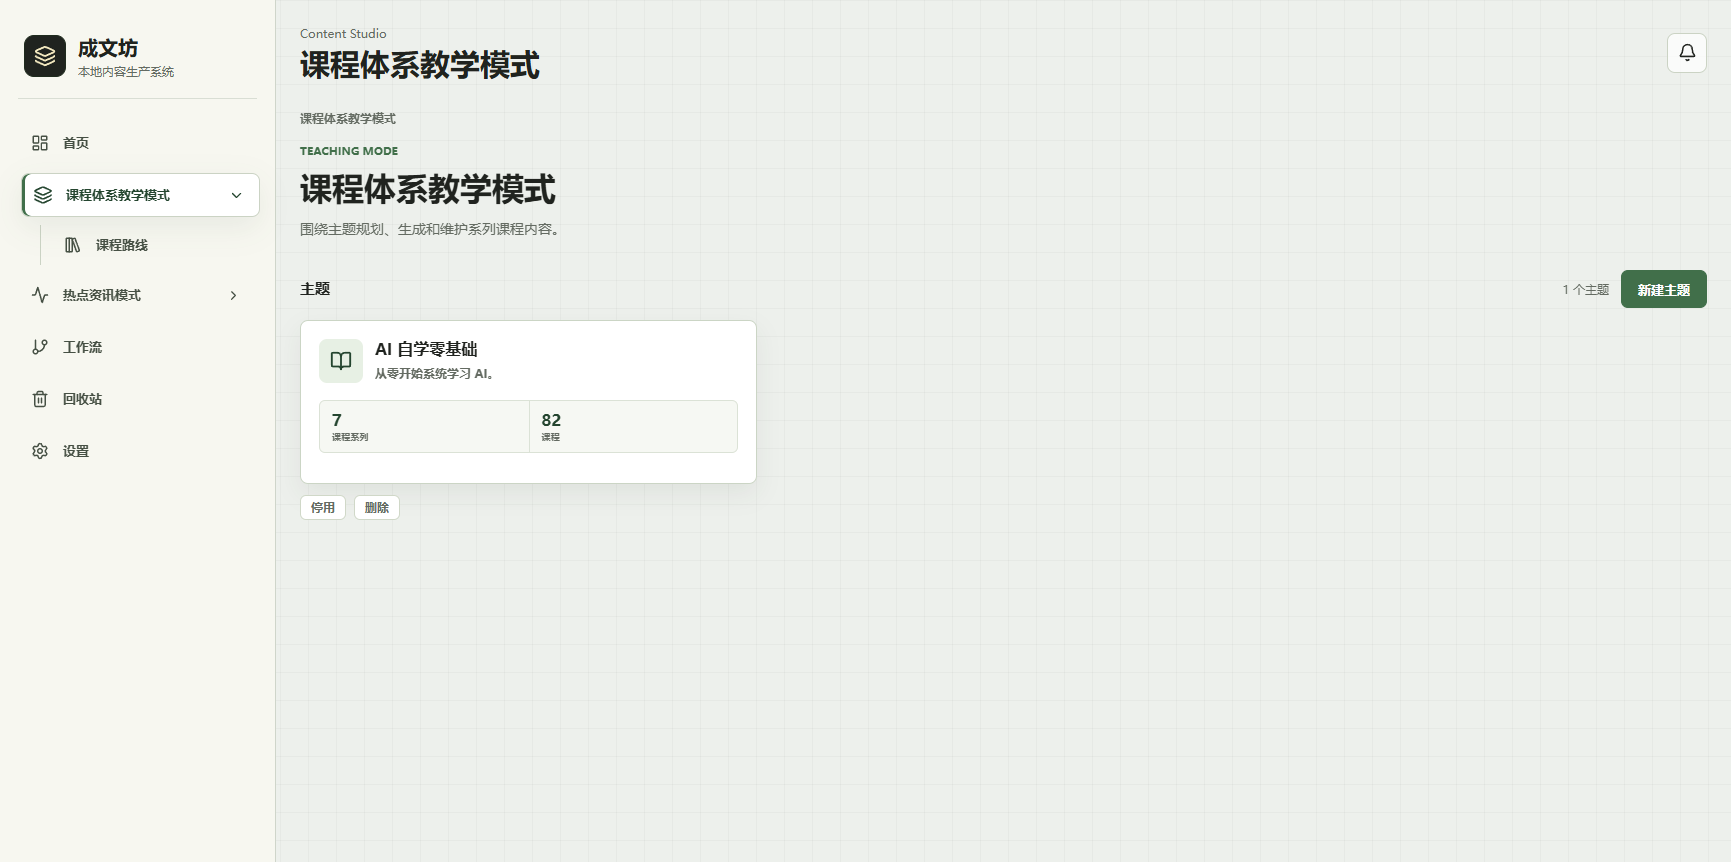
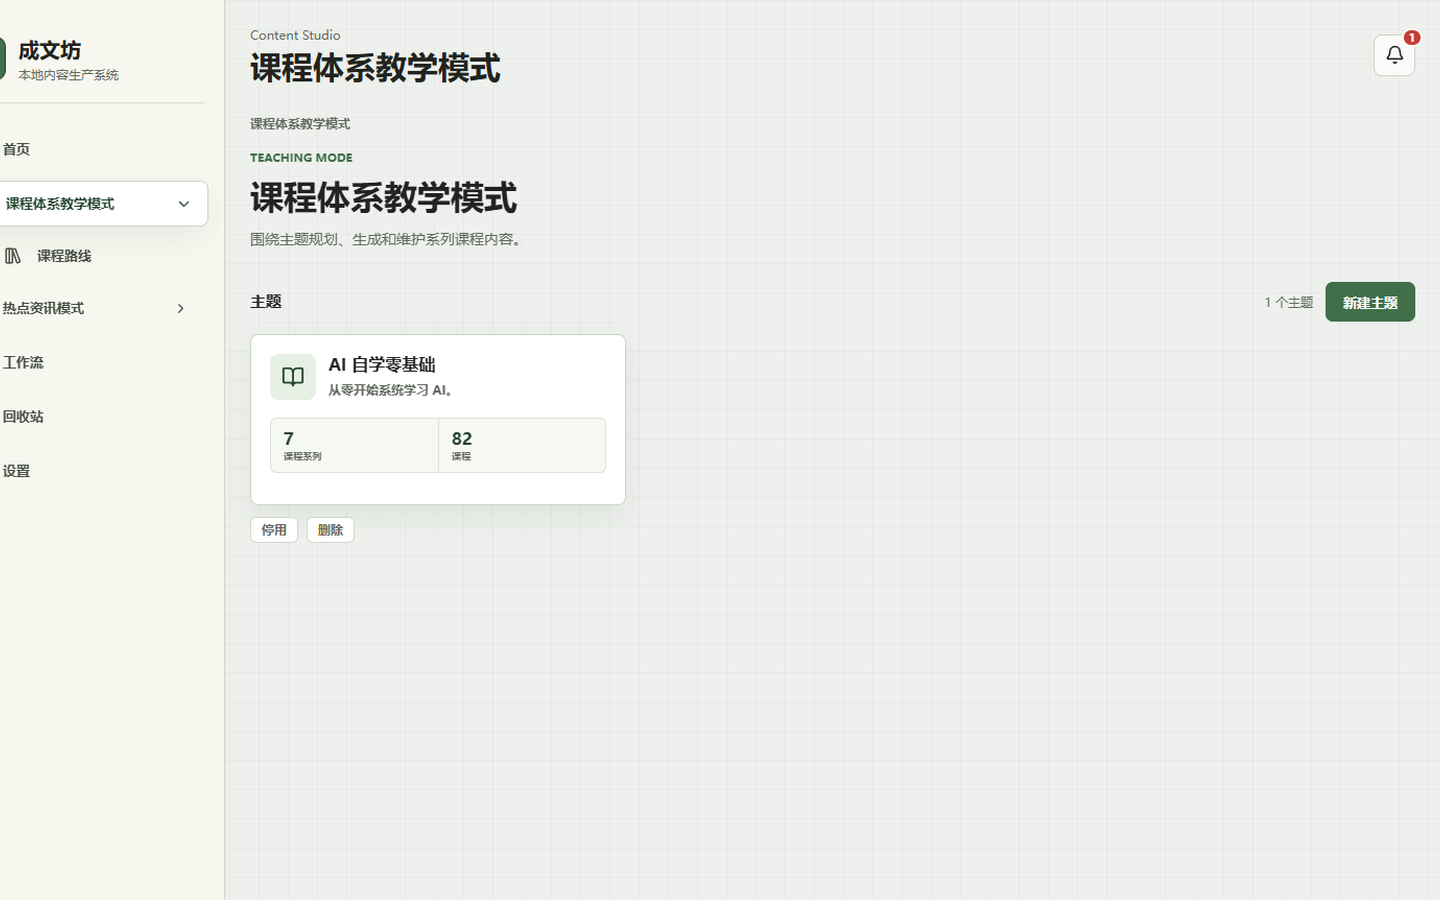
docs: refresh README screenshots at fixed 1440x900 canvas
Promote hero GIF and course-route under badges; keep radar as the feature shot and demote sparse theme cards to details.

diff --git a/scripts/oss/normalize-readme-screenshots.py b/scripts/oss/normalize-readme-screenshots.py
@@ -1,0 +1,82 @@
+"""Normalize README screenshots to identical canvas size (product viewport only)."""
+
+from __future__ import annotations
+
+import shutil
+from pathlib import Path
+
+from PIL import Image, ImageSequence
+
+RAW = Path(r"C:\Users\嘉彬\AppData\Local\Temp\cursor\screenshots\_raw")
+OUT = Path("docs/screenshots")
+# Fixed display canvas for all stills (matches capture viewport)
+W, H = 1440, 900
+BG = (247, 248, 246)
+
+
+def fit_canvas(im: Image.Image, width: int = W, height: int = H) -> Image.Image:
+    rgb = im.convert("RGB")
+    # Already exact? keep
+    if rgb.size == (width, height):
+        return rgb
+    # Cover-fit into canvas then center-crop (no letterbox bars)
+    scale = max(width / rgb.width, height / rgb.height)
+    nw, nh = max(1, int(rgb.width * scale)), max(1, int(rgb.height * scale))
+    resized = rgb.resize((nw, nh), Image.Resampling.LANCZOS)
+    left = max(0, (nw - width) // 2)
+    top = max(0, (nh - height) // 2)
+    return resized.crop((left, top, left + width, top + height))
+
+
+def save_png(src_name: str, dst_name: str) -> None:
+    src = RAW / src_name
+    if not src.exists():
+        print(f"missing {src}")
+        return
+    out = fit_canvas(Image.open(src))
+    dest = OUT / dst_name
+    out.save(dest, "PNG", optimize=True)
+    print(f"{dst_name}: {out.size} ({dest.stat().st_size // 1024} KB)")
+
+
+def build_gif() -> None:
+    frames_src = [
+        RAW / "02-hotnews-mode.png",
+        RAW / "05-hotnews-radar.png",
+        RAW / "gif-sources.png",
+    ]
+    frames: list[Image.Image] = []
+    for path in frames_src:
+        if not path.exists():
+            print(f"gif skip missing {path.name}")
+            return
+        frames.append(fit_canvas(Image.open(path), 1200, 750))
+    dest = OUT / "hotnews-walkthrough.gif"
+    frames[0].save(
+        dest,
+        save_all=True,
+        append_images=frames[1:],
+        duration=1800,
+        loop=0,
+        optimize=False,
+    )
+    print(f"hotnews-walkthrough.gif: {frames[0].size} ({dest.stat().st_size // 1024} KB)")
+
+
+def main() -> None:
+    OUT.mkdir(parents=True, exist_ok=True)
+    mapping = {
+        "01-course-mode.png": "01-course-mode.png",
+        "02-hotnews-mode.png": "02-hotnews-mode.png",
+        "03-workflows.png": "03-workflows.png",
+        "04-settings-ai.png": "04-settings-ai.png",
+        "05-hotnews-radar.png": "05-hotnews-radar.png",
+        "06-course-route.png": "06-course-route.png",
+    }
+    for src, dst in mapping.items():
+        save_png(src, dst)
+    build_gif()
+
+
+if __name__ == "__main__":
+    main()

diff --git a/scripts/oss/trim-screenshot-padding.py b/scripts/oss/trim-screenshot-padding.py
@@ -1,0 +1,67 @@
+"""Trim letterbox / near-uniform edge padding from README screenshots."""
+
+from __future__ import annotations
+
+from pathlib import Path
+
+from PIL import Image
+
+PAD = (244, 246, 245)
+TOL = 10
+DIR = Path("docs/screenshots")
+MAX_W = 1600
+
+
+def near(pixel: tuple[int, ...], target: tuple[int, int, int] = PAD, tol: int = TOL) -> bool:
+    return all(abs(int(a) - int(b)) <= tol for a, b in zip(pixel[:3], target))
+
+
+def content_bbox(im: Image.Image) -> tuple[int, int, int, int]:
+    rgb = im.convert("RGB")
+    width, height = rgb.size
+    pixels = rgb.load()
+    left, top, right, bottom = width, height, 0, 0
+    found = False
+    for y in range(height):
+        for x in range(width):
+            if not near(pixels[x, y]):
+                found = True
+                left = min(left, x)
+                top = min(top, y)
+                right = max(right, x)
+                bottom = max(bottom, y)
+    if not found:
+        return (0, 0, width, height)
+    return (left, top, right + 1, bottom + 1)
+
+
+def trim_file(path: Path) -> None:
+    original = Image.open(path).convert("RGBA")
+    box = content_bbox(original)
+    cropped = original.crop(box)
+    if cropped.width > MAX_W:
+        ratio = MAX_W / cropped.width
+        cropped = cropped.resize(
+            (MAX_W, max(1, int(cropped.height * ratio))),
+            Image.Resampling.LANCZOS,
+        )
+    cropped.convert("RGB").save(path, "PNG", optimize=True)
+    print(f"{path.name}: {original.size} crop={box} -> {cropped.size}")
+
+
+def main() -> None:
+    names = [
+        "01-course-mode.png",
+        "02-hotnews-mode.png",
+        "03-workflows.png",
+        "04-settings-ai.png",
+        "05-hotnews-radar.png",
+    ]
+    for name in names:
+        path = DIR / name
+        if path.exists():
+            trim_file(path)
+
+
+if __name__ == "__main__":
+    main()

diff --git a/README.md b/README.md
@@ -6,6 +6,20 @@
 [![Spring Boot](https://img.shields.io/badge/Spring%20Boot-3.3-6DB33F.svg)](https://spring.io/projects/spring-boot)
 [![React](https://img.shields.io/badge/React-19-61DAFB.svg)](https://react.dev/)
 
+<p align="center">
+  <a href="docs/screenshots/hotnews-walkthrough.gif">
+    <img src="docs/screenshots/hotnews-walkthrough.gif" alt="热点走查：主题 → 雷达 → 来源" width="880" />
+  </a><br />
+  <sub>热点资讯 · 主题 → 雷达选题 → 来源管理</sub>
+</p>
+
+<p align="center">
+  <a href="docs/screenshots/06-course-route.png">
+    <img src="docs/screenshots/06-course-route.png" alt="课程主路径：七个系列推进内容生产" width="880" />
+  </a><br />
+  <sub>课程体系 · 课程路线（系列推进与生产状态）</sub>
+</p>
+
 **本机运行的个人内容生产工具**：课程写作与热点资讯成文共用一套工作流，数据只落在你自己的电脑上。
 
 | 模式 | 链路 |
@@ -18,35 +32,56 @@
 > ⚠ **仅限本机**：默认绑定 `127.0.0.1`，[无鉴权](SECURITY.md)，请勿对公网暴露。  
 > 本仓库**不附带**个人课程正文，仅含 bootstrap 演示主题（见 [`content/README.md`](content/README.md)）。
 
-[仅课程快速开始](#快速开始仅课程主流程推荐) · [截图](#界面预览) · [文档](#文档) · [贡献](CONTRIBUTING.md) · [安全](SECURITY.md) · [变更](CHANGELOG.md)
+[仅课程快速开始](#快速开始仅课程主流程推荐) · [更多截图](#更多界面) · [文档](#文档) · [贡献](CONTRIBUTING.md) · [安全](SECURITY.md) · [变更](CHANGELOG.md)
 
 ---
 
-## 界面预览
+## 更多界面
+
+**热点雷达** — 写作价值排序、来源渠道与采集统计（有货状态）。
 
 <p align="center">
-  <img src="docs/screenshots/01-course-mode.png" alt="课程体系教学模式" width="48%" />
-  <img src="docs/screenshots/02-hotnews-mode.png" alt="热点资讯模式（主题卡片含来源/候选计数）" width="48%" />
-</p>
-<p align="center">
-  <img src="docs/screenshots/03-workflows.png" alt="工作流" width="48%" />
-  <img src="docs/screenshots/04-settings-ai.png" alt="设置 · AI 配置" width="48%" />
-</p>
-<p align="center">
-  <img src="docs/screenshots/05-hotnews-radar.png" alt="热点雷达选题榜（含评分与来源）" width="72%" />
-</p>
-<p align="center">
-  <img src="docs/screenshots/hotnews-walkthrough.gif" alt="热点：主题 → 雷达 → 来源" width="72%" />
+  <a href="docs/screenshots/05-hotnews-radar.png">
+    <img src="docs/screenshots/05-hotnews-radar.png" alt="热点雷达选题榜" width="880" />
+  </a>
 </p>
 
-| 图 | 说明 |
-|----|------|
-| 课程体系 | 主题卡片、课表入口、新建主题 |
-| 热点资讯 | 主题卡片展示来源条目 / 候选选题计数（非空壳） |
-| 工作流 | 内置课程生成与热点采集 / 成文流程 |
-| 设置 | 文本 / 图片 / 多模态 AI 分供应商配置 |
-| 热点雷达 | 选题榜展示评分、来源与入池状态 |
-| GIF | 热点主题列表 → 雷达选题 → 来源管理（短循环） |
+<details>
+<summary>主题总览 · 工作流 · AI 设置</summary>
+
+**课程主题** — 系列 / 课次计数。
+
+<p align="center">
+  <a href="docs/screenshots/01-course-mode.png">
+    <img src="docs/screenshots/01-course-mode.png" alt="课程体系教学模式" width="880" />
+  </a>
+</p>
+
+**热点主题** — 来源条目与候选选题计数。
+
+<p align="center">
+  <a href="docs/screenshots/02-hotnews-mode.png">
+    <img src="docs/screenshots/02-hotnews-mode.png" alt="热点资讯模式" width="880" />
+  </a>
+</p>
+
+**工作流** — 热点采集与课程生成流程清单。
+
+<p align="center">
+  <a href="docs/screenshots/03-workflows.png">
+    <img src="docs/screenshots/03-workflows.png" alt="工作流" width="880" />
+  </a>
+</p>
+
+**设置** — 文本 / 图片 / 多模态 AI 分供应商（Key 已脱敏）。
+
+<p align="center">
+  <a href="docs/screenshots/04-settings-ai.png">
+    <img src="docs/screenshots/04-settings-ai.png" alt="设置 · AI 配置" width="880" />
+  </a>
+</p>
+
+</details>
 
 ---
 

diff --git a/docs/screenshots/README.md b/docs/screenshots/README.md
@@ -1,13 +1,22 @@
 # Screenshots
 
-PNG / GIF files referenced from the root `README.md`. Captured from a local demo UI;
-do not commit screenshots that show real API keys or private manuscript bodies.
+Assets for the root `README.md`. Captured from a local demo UI at a fixed
+**1440×900** viewport (product chrome only — no OS / browser window frame).
+Do not commit shots that show real API keys or private manuscript bodies.
 
-| File | Notes |
-|------|--------|
-| `01-course-mode.png` | Course themes overview |
-| `02-hotnews-mode.png` | Hot-news themes with non-zero source / candidate counts |
-| `03-workflows.png` | Built-in workflows |
-| `04-settings-ai.png` | AI settings (keys masked / not configured) |
-| `05-hotnews-radar.png` | Radar board with scored topics |
-| `hotnews-walkthrough.gif` | Short loop: themes → radar → sources |
+## What ships in the README
+
+| Priority | File | Why |
+|----------|------|-----|
+| Hero | `hotnews-walkthrough.gif` | Shows the hot-news loop in motion |
+| 2nd hero | `06-course-route.png` | Real curriculum path (7 series) — more representative than an empty theme card |
+| Feature | `05-hotnews-radar.png` | Populated radar (scores, sources, counts) |
+| Details | `01` / `02` / `03` / `04` | Theme overviews, workflows, AI settings |
+
+## Regenerating
+
+1. Run the app (Vite + API) with demo data.
+2. Capture at 1440×900 into a temp `_raw/` folder.
+3. `python scripts/oss/normalize-readme-screenshots.py`
+
+Optional trim helper for letterboxed stills: `scripts/oss/trim-screenshot-padding.py`.

diff --git a/CHANGELOG.md b/CHANGELOG.md
@@ -10,9 +10,8 @@ where releases are tagged.
 
 ### Changed
 
-- README gallery includes the hot-news radar still (`05-hotnews-radar.png`), above the walkthrough GIF.
-- README facade: real UI screenshots, course-only quick start first, accurate module tree, optional hot-news deps called out.
-- Hot-news README shot shows populated theme metrics; add short walkthrough GIF (themes → radar → sources).
+- README facade: real UI screenshots (1440×900), course-only quick start first, accurate module tree, optional hot-news deps called out.
+- README visuals: hero GIF + course-route under badges; populated radar as feature shot; theme/workflow/settings under details.
 - Document Spring Boot **3.3.5** pin and upgrade policy (root `pom.xml` `spring-boot.version`; patch vs minor rules).
 - Document CI gate: Actions runs Vitest + Maven unit tests; excludes `*IT` / fingerprint goldens (run IT locally with Docker).
 - Compose MySQL / app secrets come from `.env` (or `${VAR:-dev-default}`); no longer hardcode credentials as the only source.
